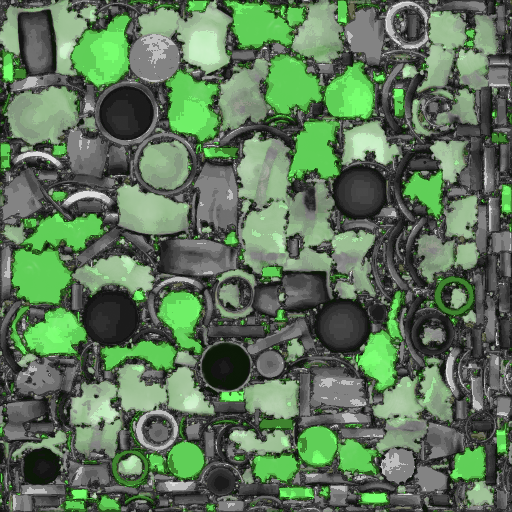
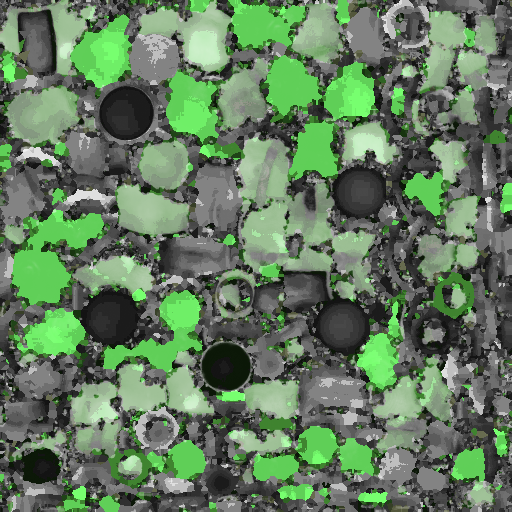
gfx: BON1A0 flask loses its black speckles — UV padding fill + mesh-aware despeckle
The dots were atlas mips, not decimation: the 512 albedo imports with
mipmaps + Point, the flask spans ~150 screen px, so mips 1-2 box-average
island colour with the dark padding and the bake's dark fringe; 38% of the
40k triangles are smaller than one texel and each pulls one such average.
New Tools/fill_uv_padding.py: rim erosion, texel despeckle, mesh-aware
triangle despeckle (dark triangle among bright neighbours takes their
median), EDT nearest fill of the padding, re-snap to the albedo's own
palette; emission mask gets the padding fill only. Textures replaced,
mesh/UV untouched; screen tone 100.4 -> 101.1.

BonusAssetTests 2/2, PickupPlayTests 8/8, Windows build OK.

Changed region(s): [[0.0, 0.0, 1.0, 1.0]]

diff --git a/Tools/fill_uv_padding.py b/Tools/fill_uv_padding.py
@@ -1,0 +1,232 @@
+"""Fill the unused atlas padding of a doomified albedo with island colours.
+
+Why: Unity imports the pickup/monster albedos with mipmaps and Point
+filtering. A TRELLIS bake leaves the texels between UV islands dark, and
+the bake itself carries a dark anti-aliased fringe along every island edge.
+At 256 px the BOX downsample diluted both; at 512 px an object that spans
+~150 screen px samples mips 1-2, whose box averages mix the dark padding and
+the dark fringe into every triangle border — black speckles along the UV
+seams of the health flask (BON1A0, 2026-09-02), the same mechanism as the
+corpse-512 wave (there fixed by hand, here as a tool).
+
+What it does (texture only — mesh, UVs and emission zones untouched):
+  1. coverage  = texels referenced by the OBJ's UV triangles
+     (doomify3d.uv_coverage_mask);
+  2. --rim N   : the N-texel inner ring of each island is treated as
+                 unreliable bake fringe and repainted from the island
+                 interior (islands too thin to survive the erosion keep
+                 their own texels);
+  3. --despeckle T : isolated dark texels inside the islands (lum < T while
+                 the 5x5 median around them is brighter by >= 30) take the
+                 median colour — bake noise that palette quantization
+                 snapped to the sprite's outline colours;
+  4. every uncovered texel takes the colour of its nearest kept texel
+     (exact EDT nearest, no blur), so the mips average island colour with
+     island colour;
+  5. changed texels are re-snapped to the colours the albedo already used,
+     so the palette stays the native one doomify3d chose.
+The emission mask gets step 4 only (its zones are authored, not baked).
+
+Usage:
+  python Tools/fill_uv_padding.py Assets/Resources/ExperimentalPickups/BON1A0/BON1A0.obj \
+      --albedo BON1A0_albedo.png [--emission BON1A0_emission.png] \
+      [--rim 2] [--despeckle 60] [--out-dir DIR] [--dump-mask]
+Paths of --albedo/--emission are relative to the OBJ's folder; without
+--out-dir the files are rewritten in place (a .bak copy is kept).
+"""
+import argparse
+import shutil
+import sys
+from pathlib import Path
+
+import numpy as np
+from PIL import Image
+from scipy import ndimage
+
+sys.path.insert(0, str(Path(__file__).resolve().parent))
+import doomify3d  # noqa: E402
+
+
+def lum(rgb: np.ndarray) -> np.ndarray:
+    return rgb[..., 0] * 0.299 + rgb[..., 1] * 0.587 + rgb[..., 2] * 0.114
+
+
+def nearest_fill(rgb: np.ndarray, keep: np.ndarray) -> np.ndarray:
+    """Every texel outside `keep` takes the colour of the nearest kept texel."""
+    if keep.all():
+        return rgb.copy()
+    _, (iy, ix) = ndimage.distance_transform_edt(~keep, return_indices=True)
+    return rgb[iy, ix]
+
+
+def erode_islands(cov: np.ndarray, rim: int) -> np.ndarray:
+    """Coverage eroded by `rim`, but islands that would vanish keep themselves."""
+    if rim <= 0:
+        return cov
+    eroded = ndimage.binary_erosion(cov, iterations=rim, border_value=0)
+    labels, n = ndimage.label(cov)
+    if n == 0:
+        return cov
+    survivors = ndimage.sum(eroded, labels, index=np.arange(1, n + 1)) > 0
+    keep = eroded.copy()
+    for i in np.nonzero(~survivors)[0]:
+        keep |= labels == (i + 1)
+    return keep
+
+
+def despeckle(rgb: np.ndarray, region: np.ndarray, thr: float) -> np.ndarray:
+    """Isolated dark texels inside `region` take the local 5x5 median colour."""
+    out = rgb.copy()
+    L = lum(rgb)
+    medL = ndimage.median_filter(L, size=5)
+    dark = region & (L < thr) & (medL - L >= 30)
+    if not dark.any():
+        return out, 0
+    for c in range(3):
+        medc = ndimage.median_filter(rgb[..., c], size=5)
+        out[..., c][dark] = medc[dark]
+    return out, int(dark.sum())
+
+
+def tri_despeckle(rgb: np.ndarray, obj_path: Path, thr: float, passes: int = 2):
+    """Mesh-aware despeckle: a triangle whose atlas footprint is dark while
+    most of its vertex-adjacent neighbours are bright takes the median colour
+    of those neighbours. Aimed at the 40k-triangle decimations whose tiny
+    triangles (a third of BON1A0's rasterize to no whole texel) sample one
+    fringe texel each and light up as black dots on the glass."""
+    from collections import defaultdict
+    from PIL import ImageDraw
+    verts, tris, cuv = doomify3d.load_obj(obj_path)
+    h, w = rgb.shape[:2]
+    n = len(cuv)
+    ids_img = Image.new("I", (w, h), -1)
+    d = ImageDraw.Draw(ids_img)
+    for i, tri in enumerate(cuv):
+        d.polygon([(u * (w - 1), (1.0 - v) * (h - 1)) for u, v in tri], fill=i)
+    ids = np.asarray(ids_img)
+    c = cuv.mean(1)
+    cx = np.clip((c[:, 0] * (w - 1)).round().astype(int), 0, w - 1)
+    cy = np.clip(((1 - c[:, 1]) * (h - 1)).round().astype(int), 0, h - 1)
+    adj = defaultdict(set)
+    byv = defaultdict(list)
+    for i, t in enumerate(tris):
+        for v in t:
+            byv[v].append(i)
+    for lst in byv.values():
+        for i in lst:
+            adj[i].update(lst)
+    out = rgb.copy()
+    total = 0
+    for _ in range(passes):
+        L = lum(out)
+        inside = ids >= 0
+        cnt = np.bincount(ids[inside], minlength=n).astype(float)
+        sums = [np.bincount(ids[inside], weights=out[..., k][inside], minlength=n)
+                for k in range(3)]
+        empty = cnt == 0
+        mean = np.stack([np.where(empty, out[cy, cx, k], sums[k] / np.maximum(cnt, 1))
+                         for k in range(3)], 1)
+        meanL = mean @ np.array([0.299, 0.587, 0.114])
+        fixed = 0
+        for i in range(n):
+            if meanL[i] >= thr:
+                continue
+            nb = [j for j in adj[i] if j != i]
+            if not nb:
+                continue
+            nbL = meanL[nb]
+            bright = nbL > thr + 30
+            if bright.mean() < 0.6:
+                continue
+            col = np.median(mean[np.array(nb)[bright]], axis=0)
+            foot = ids == i
+            foot[cy[i], cx[i]] = True
+            foot = ndimage.binary_dilation(foot, iterations=1) & ((ids == i) | ~inside | foot)
+            out[foot] = col
+            fixed += 1
+        total += fixed
+        if fixed == 0:
+            break
+    return out, total
+
+
+def snap_to_palette(rgb: np.ndarray, changed: np.ndarray, palette: np.ndarray) -> np.ndarray:
+    out = rgb.copy()
+    pts = rgb[changed].astype(np.int32)
+    if len(pts) == 0:
+        return out
+    pal = palette.astype(np.int32)
+    # chunked nearest-colour search (palette is small: tens of colours)
+    best = np.empty(len(pts), np.int64)
+    for s in range(0, len(pts), 65536):
+        d = ((pts[s:s + 65536, None, :] - pal[None, :, :]) ** 2).sum(-1)
+        best[s:s + 65536] = d.argmin(1)
+    out[changed] = palette[best]
+    return out
+
+
+def main() -> None:
+    ap = argparse.ArgumentParser()
+    ap.add_argument("obj", type=Path)
+    ap.add_argument("--albedo", required=True)
+    ap.add_argument("--emission", default=None)
+    ap.add_argument("--rim", type=int, default=0)
+    ap.add_argument("--despeckle", type=float, default=None)
+    ap.add_argument("--tri-despeckle", type=float, default=None,
+                    help="repaint dark triangles among bright neighbours (lum threshold)")
+    ap.add_argument("--out-dir", type=Path, default=None)
+    ap.add_argument("--dump-mask", action="store_true")
+    a = ap.parse_args()
+
+    folder = a.obj.parent
+    alb_path = folder / a.albedo
+    img = Image.open(alb_path)
+    rgba = np.asarray(img.convert("RGBA")).copy()
+    rgb = rgba[..., :3]
+    h, w = rgb.shape[:2]
+    cov = doomify3d.uv_coverage_mask(a.obj, (w, h))
+    palette = np.unique(rgb[cov].reshape(-1, 3), axis=0)
+    print(f"{alb_path.name}: {w}x{h}, coverage {cov.mean():.3f}, "
+          f"palette {len(palette)} colours, mean lum inside {lum(rgb)[cov].mean():.1f} "
+          f"outside {lum(rgb)[~cov].mean():.1f}")
+
+    keep = erode_islands(cov, a.rim)
+    work = rgb.copy()
+    n_spec = 0
+    if a.despeckle is not None:
+        work, n_spec = despeckle(work, keep, a.despeckle)
+    if a.tri_despeckle is not None:
+        work, n_tri = tri_despeckle(work, a.obj, a.tri_despeckle)
+        print(f"  tri-despeckle {a.tri_despeckle}: repainted {n_tri} triangles")
+    filled = nearest_fill(work, keep)
+    changed = np.any(filled != rgb, axis=-1)
+    filled = snap_to_palette(filled, changed, palette)
+    print(f"  rim {a.rim}: kept {keep.mean():.3f} of atlas; despeckled {n_spec} texels; "
+          f"changed {changed.mean():.3f} of atlas ({(changed & cov).mean():.3f} inside coverage); "
+          f"mean lum outside now {lum(filled)[~cov].mean():.1f}, "
+          f"island-border dark(<60) {(lum(rgb)[cov & ndimage.binary_dilation(~cov)] < 60).mean():.3f} -> "
+          f"{(lum(filled)[cov & ndimage.binary_dilation(~cov)] < 60).mean():.3f}")
+
+    out_dir = a.out_dir or folder
+    out_dir.mkdir(parents=True, exist_ok=True)
+    if a.out_dir is None:
+        shutil.copyfile(alb_path, alb_path.with_suffix(".png.bak"))
+    rgba[..., :3] = filled
+    Image.fromarray(rgba).save(out_dir / a.albedo)
+
+    if a.emission:
+        em_path = folder / a.emission
+        em = np.asarray(Image.open(em_path).convert("RGBA")).copy()
+        em[..., :3] = nearest_fill(em[..., :3], cov)
+        if a.out_dir is None:
+            shutil.copyfile(em_path, em_path.with_suffix(".png.bak"))
+        Image.fromarray(em).save(out_dir / a.emission)
+        print(f"  emission padding filled: {em_path.name}")
+
+    if a.dump_mask:
+        Image.fromarray((keep * 255).astype(np.uint8)).save(out_dir / "uv_keep_mask.png")
+        Image.fromarray((changed * 255).astype(np.uint8)).save(out_dir / "uv_changed_mask.png")
+
+
+if __name__ == "__main__":
+    main()

diff --git a/CLAUDE.md b/CLAUDE.md
@@ -100,6 +100,8 @@ Stages 0–8 are done (6a–6f including music; 7a–7e including E1 standalone;
 
 **Кламп площадки лежачих трупов внутри сектора ✅ закрыт 2026-09-02 («проверил в игре, выглядит хорошо»)** (branch `main`; повод — два скриншота пользователя: труп сержанта на лифте E1M3 при подъёме «наполовину за шахтой»). Диагноз без запуска игры, по сейву слота 0 + WAD: thing 103 (`SPOS`, кадр L) лежит в **0.5 юнита** от южной кромки лифта (сектор 47, tag 1, 128×64; линия 261 → сектор 34, пол 0) — убит, когда лифт стоял внизу вровень с соседом, кромки не было; лежачий меш `SPOSL0` занимает площадку ~50×47 юнитов, половина висела над ямой, а `FloorAnchor` тянет вещь по центру — при подъёме свес режется шахтой. **Врождённое свойство плоского 3D-трупа**: билборд стоит на центре и свеса не показывает. Решение — визуальный кламп, точка вещи/коллизия/сейв не трогаются: чистый `SectorFootprintClamp` (`Doom.Map`) — минимальный сдвиг ориентированного прямоугольника площадки внутрь граничных линий своего сектора (front справа от v1→v2 — думовская конвенция; учитываются только линии в досягаемости площадки, чтобы дальнее плечо вогнутого сектора не толкало; кап 32 юнита; итерации по углам), обёртка `CorpseFootprintClamp` (`MapBuild`: сектор по тому же raycast, что `FloorAnchor.FindSectorBelow`, теперь статический; карта из `WorldStateRegistry`), шов в `ExperimentalMonsterModel` — сдвиг считается ОДИН раз на смерть по площадке последнего покрытого кадра, `yawPivot` **сползает** по цепочке смерти H→L (доля по кадру + MoveTowards 4/с; ванильные трупы тоже скользят по инерции), труп из сейва прикладывается сразу (угол берётся с билборда — он несёт восстановленный угол), лужа U0 — сразу после спрея гибсов; трупы-декорации 10/12/15/18–21 клампятся при спавне в `ExperimentalPickupModel`. Classic и 3D Off не тронуты, схема сейва не менялась. **Ловушка тестов: `SyntheticMapBuilder.SingleSquareSector` намотан ПРОТИВ часовой (front слева) — ни один думовский редактор так не пишет, для тестов конвенции сторон строить свой квадрат по часовой.** Тесты: EditMode `SectorFootprintClampTests` ×6 (синтетика + пин E1M3: сдвиг на север >20, все углы внутри лифта), PlayMode `CorpseFootprintClampPlayTests` ×3 на реальной E1M3 (сервис из живой сцены, снап восстановленного трупа, сползание по цепочке). Полные сьюты: EditMode **717/717** + PlayMode **200/200** без флейков; Windows build Success **~565 MB**.
 
+**Крапины на фляжке BON1A0: заливка UV-паддинга + меш-деспекл ✅ установлено 2026-09-02 (игровой гейт за пользователем)** (branch `main`; повод — скриншот пользователя «зелёные баночки со здоровьем имеют чёрные вкрапления, видимо после децимации»). **Диагноз: не децимация и не число треугольников — это мипы атласа.** Альбедо BON1A0 512² импортируется с мипами и Point-фильтром; объект на экране ~150 px, значит сэмплируются мипы 1–2, а box-усреднение смешивает цвет островов с тёмным паддингом атласа (средняя яркость вне UV-покрытия 62 против 96 внутри) и тёмной антиалиас-кромкой бейка (42% краевых текселей темнее 60). Усугубляет 40k-децимация: **38% треугольников фляжки меньше одного текселя атласа** и на мипах каждый тянет один усреднённый тексель — отсюда чёрные «фасетки» по границам треугольников на стекле; на mip0 стекло почти чистое. Повышать лимит треугольников бесполезно: острова и их границы те же при 40k и 100k, децимация сохраняет атлас. Механизм — тот же, что в волне трупов 512 (тогда правилось руками), теперь инструмент **`Tools/fill_uv_padding.py`**: покрытие по UV-треугольникам OBJ → `--rim N` эрозия кромки островов (острова тоньше 2N сохраняют себя) → `--despeckle T` медиана для одиночных тёмных текселей → `--tri-despeckle T` **меш-ориентированный деспекл** (тёмный треугольник, у которого ≥60% соседей по вершинам ярче на 30+, перекрашивается их медианой; 1294 треугольника у BON1A0) → EDT-заливка паддинга цветом ближайшего оставленного текселя → реквантование изменённых текселей в собственную палитру альбедо (27 цветов); маска эмиссии получает только заливку паддинга, её покрытые тексели бит-в-бит. Замер на рендерах с box-мипами (`doomify3d.render`): тёмные пиксели внутри зелёной зоны mip1 101/281/76 → 74/94/22, mip2 158/69 → 72/1 (один ракурс 42→51 — шум); экранный тон 100.4 → 101.1. Заменены только PNG (меш/UV не тронуты). Тесты: `BonusAssetTests` 2/2, `PickupPlayTests` 8/8, Windows build Success. **Остаток класса: все прочие 512-альбедо (трупы) и 256-альбедо предметов имеют тот же тёмный паддинг — кандидат на массовый прогон инструмента, если гейт фляжки пройдёт.**
+
 **Волна 17 перерисовки текстур мира (SKY1) ✅ закрыта 2026-09-02 («проверил в игре, выглядит хорошо»; по панели — «принимаем, ставь как есть») — покрытие редравов эпизода ПОЛНОЕ, дальнего резерва трека больше нет** (branch `main`; промпт `Textures/WorldRedraw/prompt-sky1.md`). «Отдельный рендер-путь» оказался мифом: `WadSkyRenderer` берёт `SKY1` через `TextureCache.GetTexture(name, profile.WorldTextureVariant)`, так что в Enhanced небо уже было Super-xBR 4× и редрав по имени подключился штатным каталогом. Реальная особенность — масштаб: сфера натягивает ОДНУ копию 256×128 на 360° поворота и от зенита до надира (горизонт по ряду 64; шейдер `Doom/Sky` сэмплирует LOD 0 point-ом), на 1920 px при FOV 90° это ~30 экранных px на нативный тексель — крупнейшая магнификация в игре. Решение волны: **контракт SKY1 — 8× = 2048×1024** (`WorldRedrawAllowlist.ScaleFor(name)`; `WorldRedrawCatalog.SizeValid` и asset-тест — пер-имя; прочие 4×; джоб строит мипы от уровня 0 и других правок не потребовал), валидатор получил `--scale`. Правила промпта для неба: шов только по горизонтали (панорама), по вертикали НЕ тайлится — верхние/нижние ~4% почти однородны (иначе деталь у полюсов стянется в «звезду»), композиция один-в-один с процентными пинами холмов/седловины/облачной гряды/тумана, без солнца и бликов, гамма пасмурная. Приёмка: шов 0.00 с первого прогона (GPT сам замкнул панораму), полюса std 0–2.7, силуэт хребта в ~4 рядах из 128 (пики x 152 против 156), тон 0.94 → 1.00; **зелень холмов пришла 1.8% против нативных 24% и оказалась ТОНАЛЬНОЙ** (прецедент AQPANL01 волны 14): после `tone_match_redraw.py` 19.8%. Принято с оговорками (вердикт пользователя): холмы — однородное «валунное поле», читается фотографичнее натива (чёрная скала + мох), рыжие короны вершин ослабли, облака мягче нативных; кандидат ре-ролла с пинами, если в игре не понравится. Allowlist **383**, пайплайн **v45**. Тесты: `WorldRedrawCatalogTests` +1 (SKY1 8×, 4× для неба отвергается), `TextureUpscalePlayTests.Sky_and_fluids…` на `ScaleFor`. Целевые: EditMode 10/10 + PlayMode 12/12; полные сьюты EditMode **723/723** + PlayMode **200/200** без флейков; Windows build Success **~570 MB** каталог (+6 MB за 2048×1024).
 
 **Прогрев SW1/SW2-пар переключателей ✅ закрыт 2026-09-02 («проверил в игре, выглядит хорошо»)** (branch `main`; повод — скриншот пользователя «после нажатия на кнопку компьютера появляется неотрисованная текстура», место найдено по сейву слота 0: E1M3, DOOM (−942, 1814), линия 361 — S1-дверь spec 103 tag 3 с картовым `SW2COMM`). **Баг класса порта P_ChangeSwitchTexture (волна 12): при нажатии сайддеф свапается в пару `SW1COMM`, которой на карте нет; `PrewarmMapTextures` грел только имена карты, а WAD (`using var wad` в `BuildRoutine`) к моменту нажатия закрыт.** Скрытая половина: `TextureSet.Build` на закрытом потоке НЕ бросает — патчи пропускаются, и при нуле штампов он сам возвращает маджента-шахматку размером с текстуру (64×72) как обычный `DecodedImage` с `isPlaceholder:false`; поэтому ни размер, ни флаг, ни плей-тест волны 12 (проверял только имя стены) этого не ловили, а на всех гейт-картах SW1→SW2 картинка была такой же шахматкой (E1M7 SW1COMP → SW2COMP тоже нет на карте). Фикс: `CollectMapTextureNames` добавляет пару каждого SW-имени через `SwitchTextureRules.TryGetCounterpart` (сторож `TextureCache.HasWallTexture` — несуществующую пару не греть) — путь общий для Classic-прогрева, Enhanced-warm и hot-switch, так что пара греется и как редрав; `Build` получил перегрузку `out bool placeholder`, и `DecodeWithKind` честно помечает плейсхолдер (Clamp-обёртка, `IsPlaceholderForTest`). **Урок тестов: пин обязан падать без фикса** — первая версия пина (размер 64×72 + флаг) прошла на отключённом фиксе и вскрыла вторую половину бага; негативный прогон с `if (true) return;` — обязательный шаг для любого пина. Тесты: EditMode `SwitchCounterpartWarmTests` ×5 (пары E1M3/E1M7, `Build` после Dispose → placeholder, прогрев до закрытия WAD, все имена прогрева девяти карт реальны), PlayMode `SwitchTexturePlayTests` проверяет материал перестроенной стены. Полные сьюты: EditMode **722/722** + PlayMode **200/200** без флейков; Windows build Success **~564 MB** каталог. Ловушка батча (повтор): Unity-batch переписывает `ProjectSettings.asset`/`GraphicsSettings.asset`/URP-ассеты одними переводами строк — откатывать `git checkout` перед коммитом.
